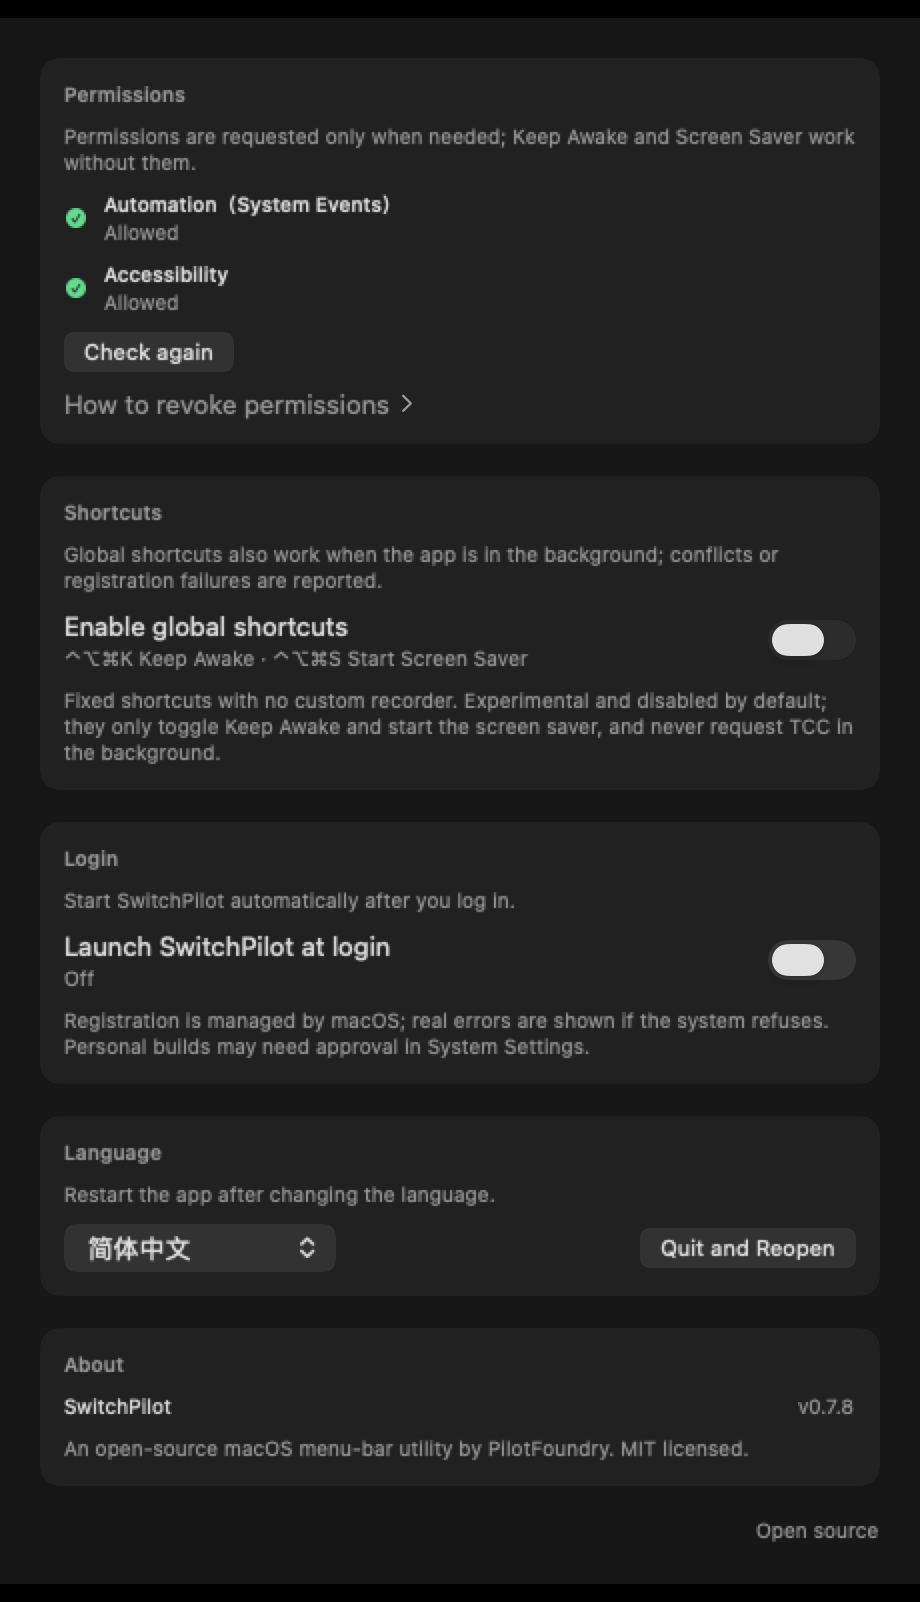
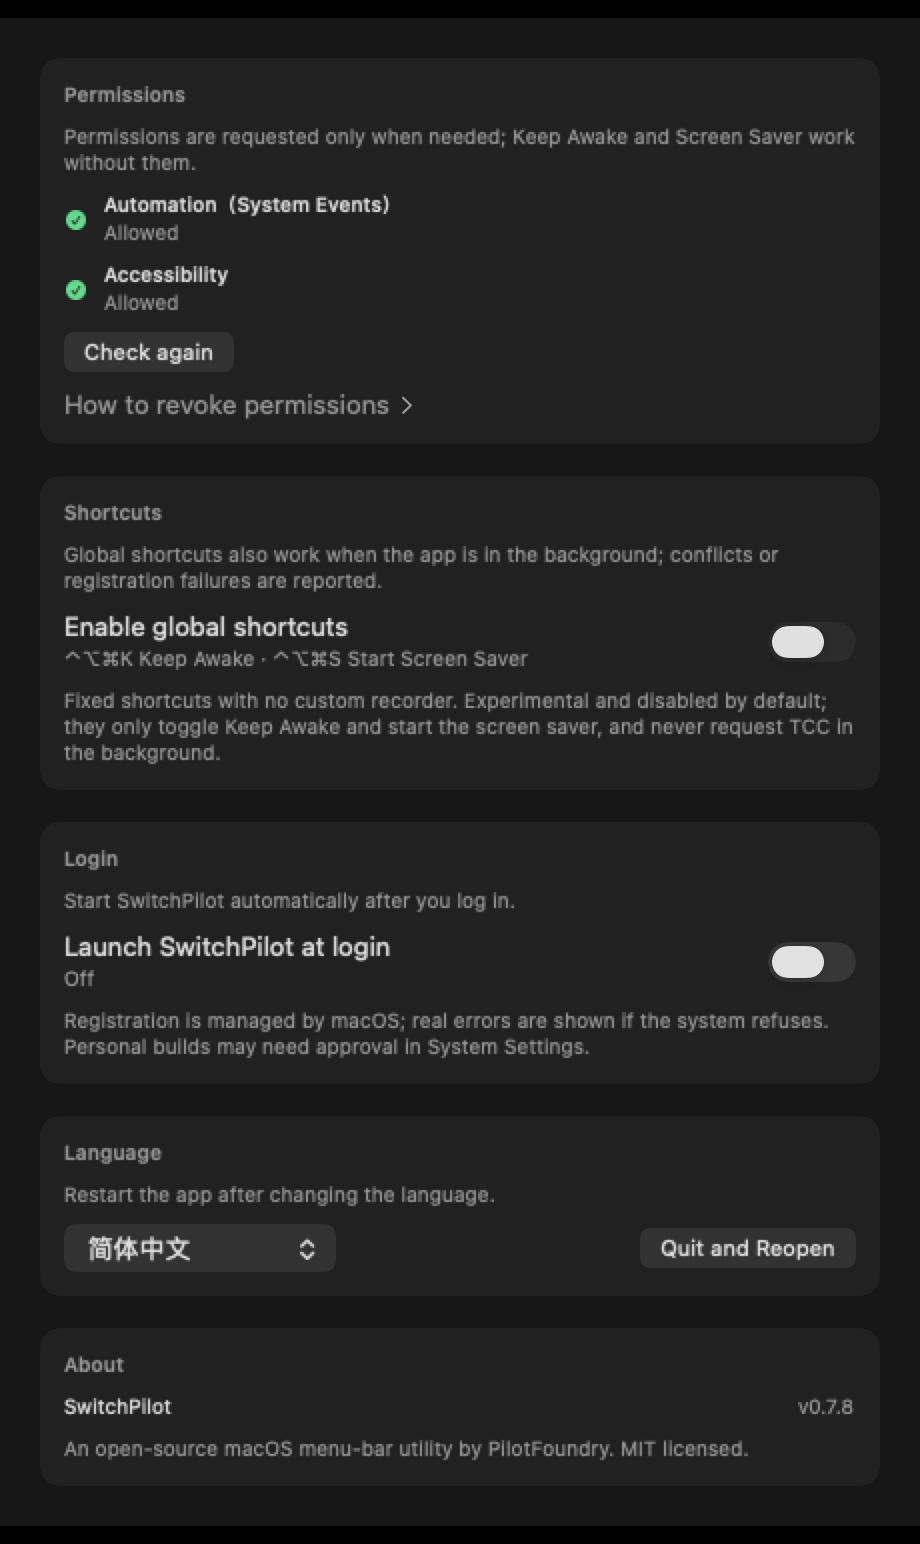
polish(local): simplify About/guide/language UX
Local-only iteration; not pushed to GitHub.

- Remove the redundant "开源" badge from Settings.
- Change the panel guide button label to "关闭说明" while the guide is visible.
- Freeze the active localization at launch. Selecting a language updates the
  preference for the next launch but no longer partially retranslates the
  running Settings window; the restart message remains accurate.
- Add a language-freeze runtime probe to verify-app.py.
- Update localization/design docs, changelog, and settings screenshots.

diff --git a/app/SwitchPilot/Sources/SwitchPilotCore/Localization.swift b/app/SwitchPilot/Sources/SwitchPilotCore/Localization.swift
@@ -33,6 +33,10 @@ public enum AppLanguage: String, CaseIterable, Identifiable, Sendable {
 public enum LanguagePreference {
     public static let defaultsKey = "switchpilot.language"
 
+    /// Resolved once, before AppKit/SwiftUI load. A Settings change updates the
+    /// preference for the next launch but must not retranslate the running UI.
+    public private(set) static var resolvedAtLaunch: AppLanguage?
+
     public static var selected: AppLanguage {
         guard let raw = UserDefaults.standard.string(forKey: defaultsKey),
               let value = AppLanguage(rawValue: raw) else {
@@ -43,6 +47,21 @@ public enum LanguagePreference {
 
     public static func set(_ language: AppLanguage) {
         UserDefaults.standard.set(language.rawValue, forKey: defaultsKey)
+    }
+
+    /// Regression probe: changing the persisted preference must not change the
+    /// active locale of the running process.
+    public static func languageFreezeProbe() -> Bool {
+        let before = AppLocalization.activeCode
+        let original = UserDefaults.standard.string(forKey: defaultsKey)
+        set(.english)
+        let after = AppLocalization.activeCode
+        if let original {
+            UserDefaults.standard.set(original, forKey: defaultsKey)
+        } else {
+            UserDefaults.standard.removeObject(forKey: defaultsKey)
+        }
+        return before == after
     }
 
     /// Apply the saved language before AppKit/SwiftUI resolve localized
@@ -59,6 +78,7 @@ public enum LanguagePreference {
             language = selected
         }
 
+        resolvedAtLaunch = language
         if let code = language.localizationCode {
             UserDefaults.standard.set([code], forKey: "AppleLanguages")
         } else {
@@ -76,6 +96,9 @@ public enum AppLocalization {
             if let parsed = AppLanguage(rawValue: forced), parsed != .system {
                 return parsed.localizationCode
             }
+        }
+        if let resolved = LanguagePreference.resolvedAtLaunch {
+            return resolved.localizationCode
         }
         return LanguagePreference.selected.localizationCode
     }

diff --git a/app/SwitchPilot/Sources/SwitchPilot/SettingsView.swift b/app/SwitchPilot/Sources/SwitchPilot/SettingsView.swift
@@ -21,13 +21,6 @@ struct SettingsView: View {
                     .frame(maxWidth: .infinity, alignment: .leading)
                     .background(RoundedRectangle(cornerRadius: 8).fill(Color.accentColor.opacity(0.08)))
             }
-
-            HStack {
-                Spacer()
-                Text("开源")
-                    .font(.caption)
-                    .foregroundStyle(Color.secondaryInk)
-            }
         }
         .padding(20)
         .frame(width: 460)

diff --git a/app/SwitchPilot/Sources/SwitchPilot/main.swift b/app/SwitchPilot/Sources/SwitchPilot/main.swift
@@ -190,6 +190,9 @@ if arguments.contains("--panel-hit-test") {
 if arguments.contains("--settings-close-key-test") {
     exit(MainActor.assumeIsolated { SettingsWindowController.closeShortcutRegressionProbe() ? 0 : 1 })
 }
+if arguments.contains("--language-freeze-test") {
+    exit(MainActor.assumeIsolated { LanguagePreference.languageFreezeProbe() ? 0 : 1 })
+}
 
 let application = NSApplication.shared
 let delegate = AppDelegate()

diff --git a/app/SwitchPilot/Sources/SwitchPilot/PanelView.swift b/app/SwitchPilot/Sources/SwitchPilot/PanelView.swift
@@ -523,7 +523,7 @@ struct PanelView: View {
 
     private var footer: some View {
         HStack(spacing: 8) {
-            Button("使用说明") { model.toggleGuide() }
+            Button(model.guideVisible ? L("关闭说明") : L("使用说明")) { model.toggleGuide() }
                 .buttonStyle(.bordered)
                 .controlSize(.small)
             Button("设置…") { model.openSettings() }

diff --git a/scripts/verify-app.py b/scripts/verify-app.py
@@ -157,7 +157,10 @@ def check_panel_hit_test():
     close_key = run(str(APP_BIN), "--settings-close-key-test")
     if close_key.returncode != 0:
         raise RuntimeError(close_key.stderr.strip() or "settings Cmd-W probe failed")
-    return "material click-through and settings Cmd-W handling"
+    language = run(str(APP_BIN), "--language-freeze-test")
+    if language.returncode != 0:
+        raise RuntimeError(language.stderr.strip() or "language freeze probe failed")
+    return "material click-through, settings Cmd-W and launch-language freeze"
 
 
 def check_no_leftover_process():

diff --git a/docs/DESIGN.md b/docs/DESIGN.md
@@ -69,9 +69,12 @@ Width: about 460 pt; content is grouped into cards:
 - Hotkeys: fixed shortcuts, enable toggle, conflict/error explanation.
 - Login: optional `SMAppService` login item; honest registration state.
 - **Language**: Follow System / English / 简体中文 / 繁體中文 / 日本語, plus
-  **Quit and Reopen** because a language change requires a relaunch.
-- About: SwitchPilot, version, open-source/MIT positioning, and an
-  **Open source** badge. The About copy does not mention a legacy menu-bar utility.
+  **Quit and Reopen** because a language change requires a relaunch. The active
+  locale is frozen at launch so selecting another language cannot produce a
+  mixed-language Settings window before restart.
+- About: SwitchPilot, version and open-source/MIT positioning. There is no
+  separate "Open source" badge because the repository is already public; the
+  About copy does not mention a legacy menu-bar utility.
 
 Settings refreshes permission state when it opens or the app becomes active.
 Advanced TCC reset commands remain copy-only after explicit disclosure; the app
